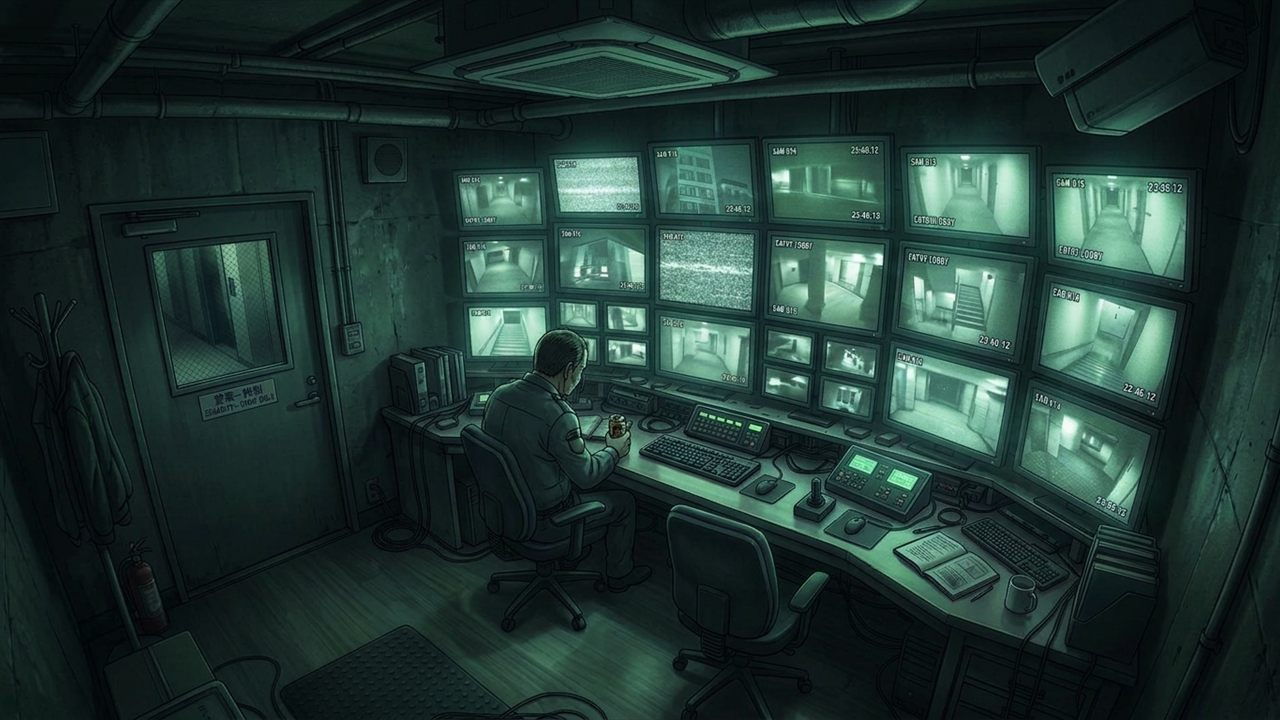
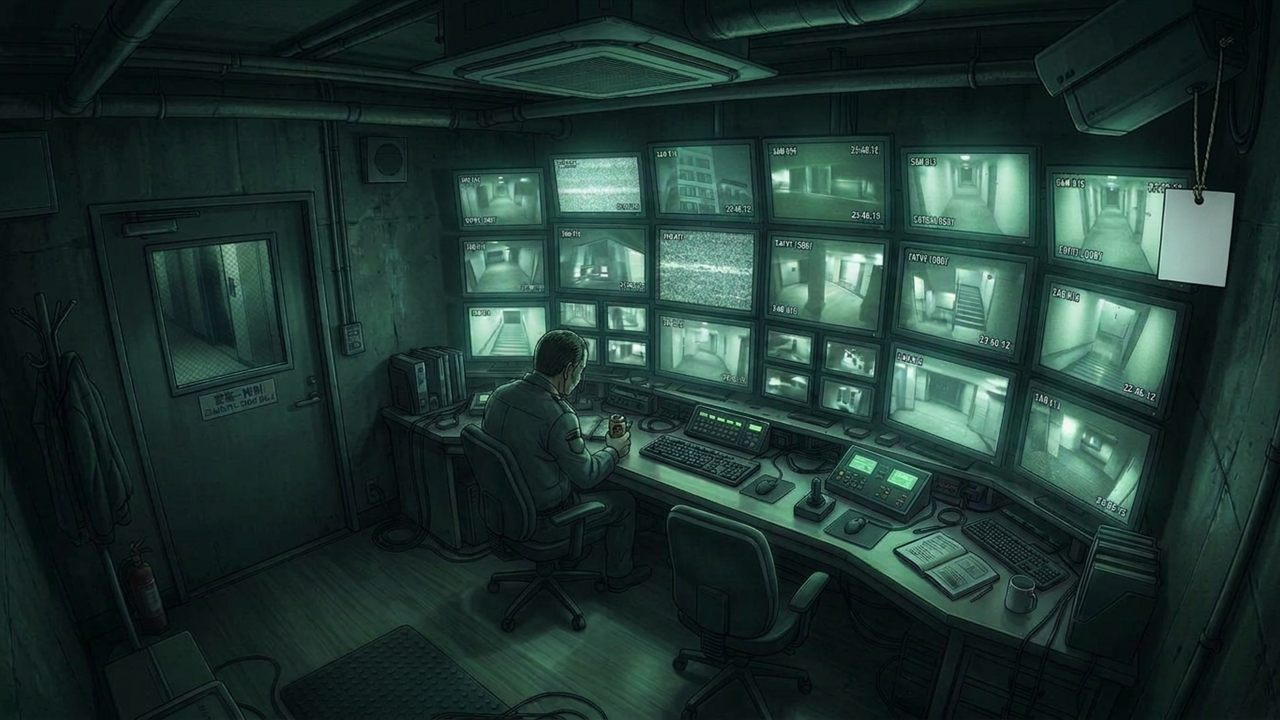
第1章の絵のレビューを反映: USB を見える形に、ロビーの人物を久住に、23 時の瀬名の仕草の絵を追加
- ch1_relay_sena_usb: 机の板を開き、USB を白い光で見せる（モニターの色をかけても見えるよう白にした）
- ch1_lobby_police: ロビーで警官と話す人物を久住に替え、規制テープと見張りの警官を足す
- ch1_monitor_room: 「故障中」の札の下がったカメラを足す
- ch1_sena_trace を追加し、1日目 23:00 の東廊下で使う
- ch1_dropped_cans: レジ袋を無地にする
- 21 時以降の佐伯の影をレジの奥へ、佐伯が八島に気づく行にすました顔を出す
- prompts_en.md に直しのプロンプトと、明るさで目立たせる決まりを記録

diff --git a/game/scenario/chapter1.js b/game/scenario/chapter1.js
@@ -106,6 +106,7 @@ Observer.script('chapter1', `
 @show 玲子 smile left
 @show 佐伯 smile
 佐伯「玲子さんには、いつも助けてもらってばかりね」
+@show 佐伯 normal
 佐伯は、ふと八島に気づいた。笑顔が、すっと消える。
 @show 佐伯 scorn
 佐伯「……ちょっと。貧乏人が、うろうろしないでくれる？　お客様の気分が悪くなるの」
@@ -151,7 +152,7 @@ Observer.script('chapter1', `
 @cam CAM-00 live
 21 時。夜勤の始まり。
 監視室の天井の隅のカメラには、「故障中・修理手配済み」の札が下がったまま。もう何か月も、そのままだ。
-@feed CAM-02 woman@245
+@feed CAM-02 woman@272
 扉が開いた。入ってきたのは、管理会社の所長、久住だった。
 @show 久住
 事務的で目立たない、灰色のような男。いつも書類の角を、指でそろえている。
@@ -171,7 +172,7 @@ Observer.script('chapter1', `
 // ============================================================
 *watch1_setup
 @time 1/21:20
-@feed CAM-02 woman@250
+@feed CAM-02 woman@272
 @feed CAM-08 img:scenes/ch1_reiko_look.jpg woman@170
 @feed CAM-07 img:scenes/ch1_office_couple.jpg sitman@80,140 sitwoman@240,140
 @look CAM-08 flag=saw_reiko
@@ -234,7 +235,7 @@ Observer.script('chapter1', `
 @feed CAM-08
 @feed CAM-02
 @feed CAM-07 img:scenes/ch1_hanako_desk.jpg sitwoman@240,140
-@feed CAM-03 img:scenes/ch1_sena_mop.jpg cleaner@150,165
+@feed CAM-03 img:scenes/ch1_sena_trace.jpg cleaner@150,165
 @look CAM-03 flag=saw_sena
   1F 東廊下。清掃の作業員が、モップをかけている。
   作業着に、首からタオル。髪を後ろで一つに結んでいる。

diff --git a/assets_src/prompts_en.md b/assets_src/prompts_en.md
@@ -6,12 +6,12 @@
 
 各絵の見出しに、✅（生成済み）か ⬜（未生成）を付けています。`assets_src/images/` はリポジトリに入らないので、絵を置いたら、ここの一覧と見出しのマークを手で更新します。
 
-全 49 枚のうち、生成済みは 49 枚、未生成は 0 枚です（2026-11-14 時点）。
+全 50 枚のうち、生成済みは 50 枚、未生成は 0 枚です（2026-11-14 時点）。
 
 | 種類 | ✅ 生成済み | ⬜ 未生成 | 未生成の絵 |
 |---|---|---|---|
 | 立ち絵 | 18 | 0 | なし |
-| 場面の絵 | 18 | 0 | なし |
+| 場面の絵 | 19 | 0 | なし |
 | カメラの背景 | 13 | 0 | なし |
 
 2026-11-14 に絵を見比べて、絵どうし・絵とシナリオの食い違いを直すことにしました。下の「絵をそろえるための決まり」に合わせ、「作り直し（Gemini で参考画像を添付）」のプロンプトで作り直しました（23 枚、同じ日に完了。新しく作った `ch1_lobby_police`・`cam07_office_day`・`cam09_roof_day` を含め、全部で 49 枚）。作り直した絵の前の版は、`assets_src/images/backup/` に移しています（ゲームには使わない）。
@@ -937,6 +937,70 @@ Generate an image. Japanese anime style illustration, cinematic, in the same art
 ```
 
 > **日本語訳**: 日本のアニメ調のイラスト。映画のような絵づくりで、絵柄は添付の絵に合わせる。場所は、添付の絵のガラスのタワーの玄関の前の、同じ広い舗装の歩道（同じ敷石、植え込み、ガラスの壁面）。早朝の、強くまぶしい日差し。地面に近い低い角度からの寄りの構図: 落ちたコンビニのレジ袋、敷石の上を転がる缶ビール、少し先に落ちたチャーシューのパック。背景にはぼやけたタワーの玄関。男もほかの人も描かない。むごい描写・血なし。画面の外で何か恐ろしいことが起きた直後、という気配。横長 16:9。文字・ラベル・ロゴ・透かしなし。
+
+---
+
+## 絵のレビューを受けた直し（Gemini で今の絵を添付）
+
+ゲームに配置した絵を見直して、次の直しをした（2026-11-14）。どれも、今の絵を 1 枚添付して、変えるところだけを指示した。
+
+- 小さな物（USB など）は、ゲームの解像度 320×180 でも見えるか、縮めて確かめる。
+- ゲームは絵にモニターの色（ライブは緑、過去は琥珀）をかけ、色を置き換えて明るさだけを残す。目立たせたい光は、色のついた光（青など）ではなく、**明るい白い光**にする（青い光は琥珀色で消えた）。
+
+### ch1_relay_sena_usb（USB をはっきり見せる）
+
+添付: `scenes/ch1_relay_sena_usb`（直す前のもの）。2 回直した（1 回目の青い光が、琥珀色をかけると消えたため）。
+
+```
+Generate an image. Edit the attached image. Keep the same office, camera angle, composition, darkness, nameplates and art style, and the same cleaning woman (same face, black ponytail, gray work uniform, towel around her neck). Change only this: the wooden front panel of the husband's desk on the left (the panel facing the camera) is clearly hanging open at an angle, leaving a dark gap, and inside the gap there is a small USB flash drive with a tiny glowing blue light, so it is easy to notice even in a small, low-resolution image. The woman has crouched down low beside that desk and is peering into the gap at the USB drive. Horizontal 16:9 landscape. The security camera itself is not visible. No text, no letters, no logo, no watermark.
+```
+
+```
+Generate an image. Edit the attached image. Keep everything exactly the same: the office, the camera angle, the composition, the nameplates, the crouching cleaning woman, the open desk panel, the colors and the art style. Change only the light of the USB flash drive in the gap: make it a much brighter, larger WHITE glow (not blue), like a small bright white lamp, clearly lighting up the inside of the gap and spilling a little white light onto the floor and onto the woman's face, so it stands out as the brightest spot in the lower half of the image even when the picture is small and tinted a single color. Horizontal 16:9 landscape. The security camera itself is not visible. No text, no letters, no logo, no watermark.
+```
+
+> **日本語訳**: 1 回目: 事務所・角度・構図・暗さ・名札・絵柄と、清掃の女性はそのまま。左の夫の机の、カメラ側の木の板をはっきり斜めに開かせて暗いすき間を作り、すき間に小さな青い光のついた USB メモリを置く（小さく粗い絵でも気づけるように）。女性は机のわきに低くしゃがみ、すき間の USB をのぞき込む。
+> 2 回目: ほかはすべてそのままで、USB の光だけを、青でなく、ずっと明るく大きな白い光にする。すき間の中を照らし、床と女性の顔に少し白い光がこぼれる。絵が小さく、単色に色づけされても、絵の下半分でいちばん明るい点として目立つように。
+
+### ch1_lobby_police（ロビーの人物を久住に替え、規制線を足す）
+
+添付: `scenes/ch1_lobby_police`（直す前のもの）、`chars/kuzumi_normal`
+
+```
+Generate an image. Edit the first attached image. Keep the same lobby, camera angle, composition, daylight, police car and art style, and keep the two uniformed police officers. Change only these: (1) replace the detective in the beige trench coat with the man from the second attached image: a 55-year-old building management company manager with graying hair and a plain gray suit, holding a stack of documents (ignore his green background); he stands in the right half of the group, talking politely with the officers. (2) Outside the glass entrance, plain yellow police barrier tape with no letters is stretched across the sidewalk, and one more uniformed officer stands guard beside it. Small figures as seen by a security camera. Horizontal 16:9 landscape. The security camera itself is not visible. No text, no letters, no numbers, no timestamps, no logo, no watermark.
+```
+
+> **日本語訳**: ロビー・角度・構図・日の光・パトカー・絵柄と、制服の警官 2 人はそのまま。(1) ベージュのトレンチコートの刑事を、2 枚目の男（白髪まじりで地味な灰色のスーツ、書類の束を持つ、55 歳のビル管理会社の所長。緑の背景は無視）に替え、警官たちと丁寧に話している。(2) ガラスの正面玄関の外の歩道に、文字のない黄色い規制テープを張り、そのわきに見張りの警官をもう 1 人立たせる。防犯カメラから見た小さな人物。文字・数字・時刻表示なし。
+
+### ch1_monitor_room（「故障中」の札の下がったカメラを足す）
+
+添付: `scenes/ch1_monitor_room`（直す前のもの）
+
+```
+Generate an image. Edit the attached image. Keep everything exactly the same: the monitoring room, the wall of monitors, the man sitting with his back to us, the empty second chair, the lighting, the colors and the art style. Only add one thing: in the upper corner of the room near the ceiling, clearly visible, a small old security camera mounted on the wall, with a small blank white card hanging from it on a string (an out-of-order tag, with no letters on it). Horizontal 16:9 landscape. No text, no letters, no logo, no watermark.
+```
+
+> **日本語訳**: 監視室・モニターの壁・背を向けて座る男・空いた 2 つ目の椅子・明かり・色・絵柄は、すべてそのまま。部屋の上の隅の天井近くに、古い小さな防犯カメラを 1 台、はっきり見えるように足す。カメラからはひもで小さな白い札（故障中の札。文字なし）が下がっている。
+
+### ch1_sena_trace（1日目 23:00 の瀬名。新しく作る）
+
+添付: `scenes/ch1_sena_mop`
+
+```
+Generate an image. Edit the attached image. Keep the same corridor, camera angle, composition, lighting, the red fire alarm bell, the ceiling sensor and the art style, and the same cleaning woman (same face, black ponytail, gray work uniform, towel around her neck, the men's wristwatch on her left wrist). Change only her action: she has stopped mopping, leaned the mop against the cart, stepped to the stone pillar on the right side of the corridor, and is slowly tracing a thin crack in the wall with her fingertips, looking closely at it. Small figure as seen by a security camera. Horizontal 16:9 landscape. The security camera itself is not visible. No text, no letters, no logo, no watermark.
+```
+
+> **日本語訳**: 廊下・角度・構図・明かり・赤い非常ベル・天井のセンサー・絵柄と、清掃の女性（同じ顔、黒髪のポニーテール、グレーの作業着、首にタオル、左手首の男物の腕時計）はそのまま。動きだけを変える: モップがけをやめてモップをカートに立てかけ、廊下の右の石の柱へ寄り、壁の細いひびを指先でゆっくりなぞりながら、じっと見ている。防犯カメラから見た小さな人物。
+
+### ch1_dropped_cans（コンビニ袋を無地に）
+
+添付: `scenes/ch1_dropped_cans`（直す前のもの）
+
+```
+Generate an image. Edit the attached image. Keep everything exactly the same: the sidewalk, the glass tower, the sunlight, the beer can, the pack of roast pork, the composition and the art style. Change only the plastic bag: make it a plain white plastic bag with no colored stripes, no logos and no printing at all. Horizontal 16:9 landscape. No people. No text, no labels, no logo, no watermark.
+```
+
+> **日本語訳**: 歩道・ガラスのタワー・日差し・缶ビール・チャーシューのパック・構図・絵柄は、すべてそのまま。レジ袋だけを、色の帯・ロゴ・印刷のない、無地の白いレジ袋にする。人なし。
 
 ---
 

diff --git a/assets_src/README.md b/assets_src/README.md
@@ -98,7 +98,8 @@
 |---|---|---|---|
 | `ch1_reiko_look` | 9F のエレベーターホール。エレベーターを待つ玲子が、ふとカメラを見上げている（こちらと目が合う） | カメラから | A |
 | `ch1_backyard_affair` | ショップの裏の薄暗い倉庫。段ボールの陰で、服を着たままの男女が寄り添い、抱き合っている。顔はぼんやりとしか見えない | カメラから | A |
-| `ch1_sena_mop` | 1F の廊下。作業着の女性（瀬名）がモップをかけ、ふと手を止めて壁を指でなぞっている | カメラから | A |
+| `ch1_sena_mop` | 1F の廊下。作業着の女性（瀬名）がモップをかけている（真解決の最後に使う） | カメラから | A |
+| `ch1_sena_trace` | 1F の廊下。瀬名がモップを置き、柱の壁のひびを指でなぞっている（1日目 23:00 に使う） | カメラから | A |
 | `ch1_backyard_confront` | 同じ倉庫。スーツの女性（華子）が扉のところに立ち、男がうろたえ、女（佐伯）が服をかき抱いて壁際で固まっている修羅場 | カメラから | A |
 | `ch1_monitor_room` | 地下の狭い監視室。壁一面のモニターの光の前で、作業着の男が背を丸め、缶コーヒーを持っている（後ろ姿） | 屋外（監視室） | A |
 | `ch1_shop_card` | 閉店まぎわの高級ブランドショップ。白髪の上品なスーツの男がカードを差し出し、女性の店長（佐伯）が深く頭を下げている | カメラから・屋外 | A |
@@ -143,8 +144,8 @@
 |---|---|---|---|
 | `chars/reiko_normal`・`reiko_smile`・`reiko_sad`・`sena_normal`・`sena_smile`・`saeki_smile`・`saeki_flushed`・`jogasaki_normal`・`jogasaki_aroused`・`jogasaki_after`、`scenes/ch1_reiko_look`・`ch1_backyard_affair`・`ch1_sena_mop`、`bg/cam00_room` | Leonardo.ai（無料プラン）で生成（2026-11-08。玲子の立ち絵は同日に作り直し） | Leonardo.ai の利用規約による。無料プランの生成物は公開され、権利は Leonardo.ai が持つが、商用を含めて利用できると案内されている | 不要（任意） |
 | `chars/hanako_normal`・`hanako_angry`・`hanako_rage`・`kuzumi_normal`・`okochi_normal`、`scenes/ch1_backyard_confront` | Leonardo.ai（無料プラン）で生成（2026-11-10） | 同上 | 不要（任意） |
-| `bg/cam01_lobby`・`cam02_shop`・`cam03_corridor`・`cam04_backyard`・`cam05_elevator`・`cam06_evhall6`・`cam07_office`・`cam08_evhall9`・`cam09_roof`・`cam10_stairs`、`scenes/ch1_monitor_room`・`ch1_shop_card`・`ch1_lobby_bow`・`ch1_office_couple`・`ch1_hanako_desk`・`ch1_shop_front`・`ch1_elevator_close`・`ch1_street_phone`・`ch1_couple_morning`・`ch1_dawn_building`・`ch1_dropped_cans`・`ch1_office_police`・`ch1_relay_sena_usb`、`chars/saeki_scorn`・`saeki_normal`・`jogasaki_scorn`、`scenes/ch1_lobby_police`、`bg/cam07_office_day`・`cam09_roof_day` | Google Gemini（無料）で生成（2026-11-14。人物の入る絵は、上の Leonardo.ai の立ち絵と背景を参考画像として添付して作った。同じ日に、絵どうしの食い違いを直すため、多くを作り直した） |
-| `scenes/ch1_reiko_look`・`ch1_backyard_affair`・`ch1_backyard_confront`・`ch1_sena_mop`（作り直した版） | 上の Leonardo.ai の絵を、Google Gemini（無料）で直したもの（2026-11-14。カメラ本体を消す、非常ベルなどを足す） | Leonardo.ai と Google の、両方の利用規約による | 不要（任意） | Google の生成 AI の利用規約による（生成物には見えない電子透かし SynthID が入る）。公開前に最新の規約を確かめる | 不要（任意） |
+| `bg/cam01_lobby`・`cam02_shop`・`cam03_corridor`・`cam04_backyard`・`cam05_elevator`・`cam06_evhall6`・`cam07_office`・`cam08_evhall9`・`cam09_roof`・`cam10_stairs`、`scenes/ch1_monitor_room`・`ch1_shop_card`・`ch1_lobby_bow`・`ch1_office_couple`・`ch1_hanako_desk`・`ch1_shop_front`・`ch1_elevator_close`・`ch1_street_phone`・`ch1_couple_morning`・`ch1_dawn_building`・`ch1_dropped_cans`・`ch1_office_police`・`ch1_relay_sena_usb`、`chars/saeki_scorn`・`saeki_normal`・`jogasaki_scorn`、`scenes/ch1_lobby_police`・`ch1_sena_trace`、`bg/cam07_office_day`・`cam09_roof_day` | Google Gemini（無料）で生成（2026-11-14。人物の入る絵は、上の Leonardo.ai の立ち絵と背景を参考画像として添付して作った。同じ日に、絵どうしの食い違いやレビューの指摘を直すため、多くを作り直した） | Google の生成 AI の利用規約による（生成物には見えない電子透かし SynthID が入る）。公開前に最新の規約を確かめる | 不要（任意） |
+| `scenes/ch1_reiko_look`・`ch1_backyard_affair`・`ch1_backyard_confront`・`ch1_sena_mop`（作り直した版） | 上の Leonardo.ai の絵を、Google Gemini（無料）で直したもの（2026-11-14。カメラ本体を消す、非常ベルなどを足す） | Leonardo.ai と Google の、両方の利用規約による | 不要（任意） |
 
 ## 注意
 
